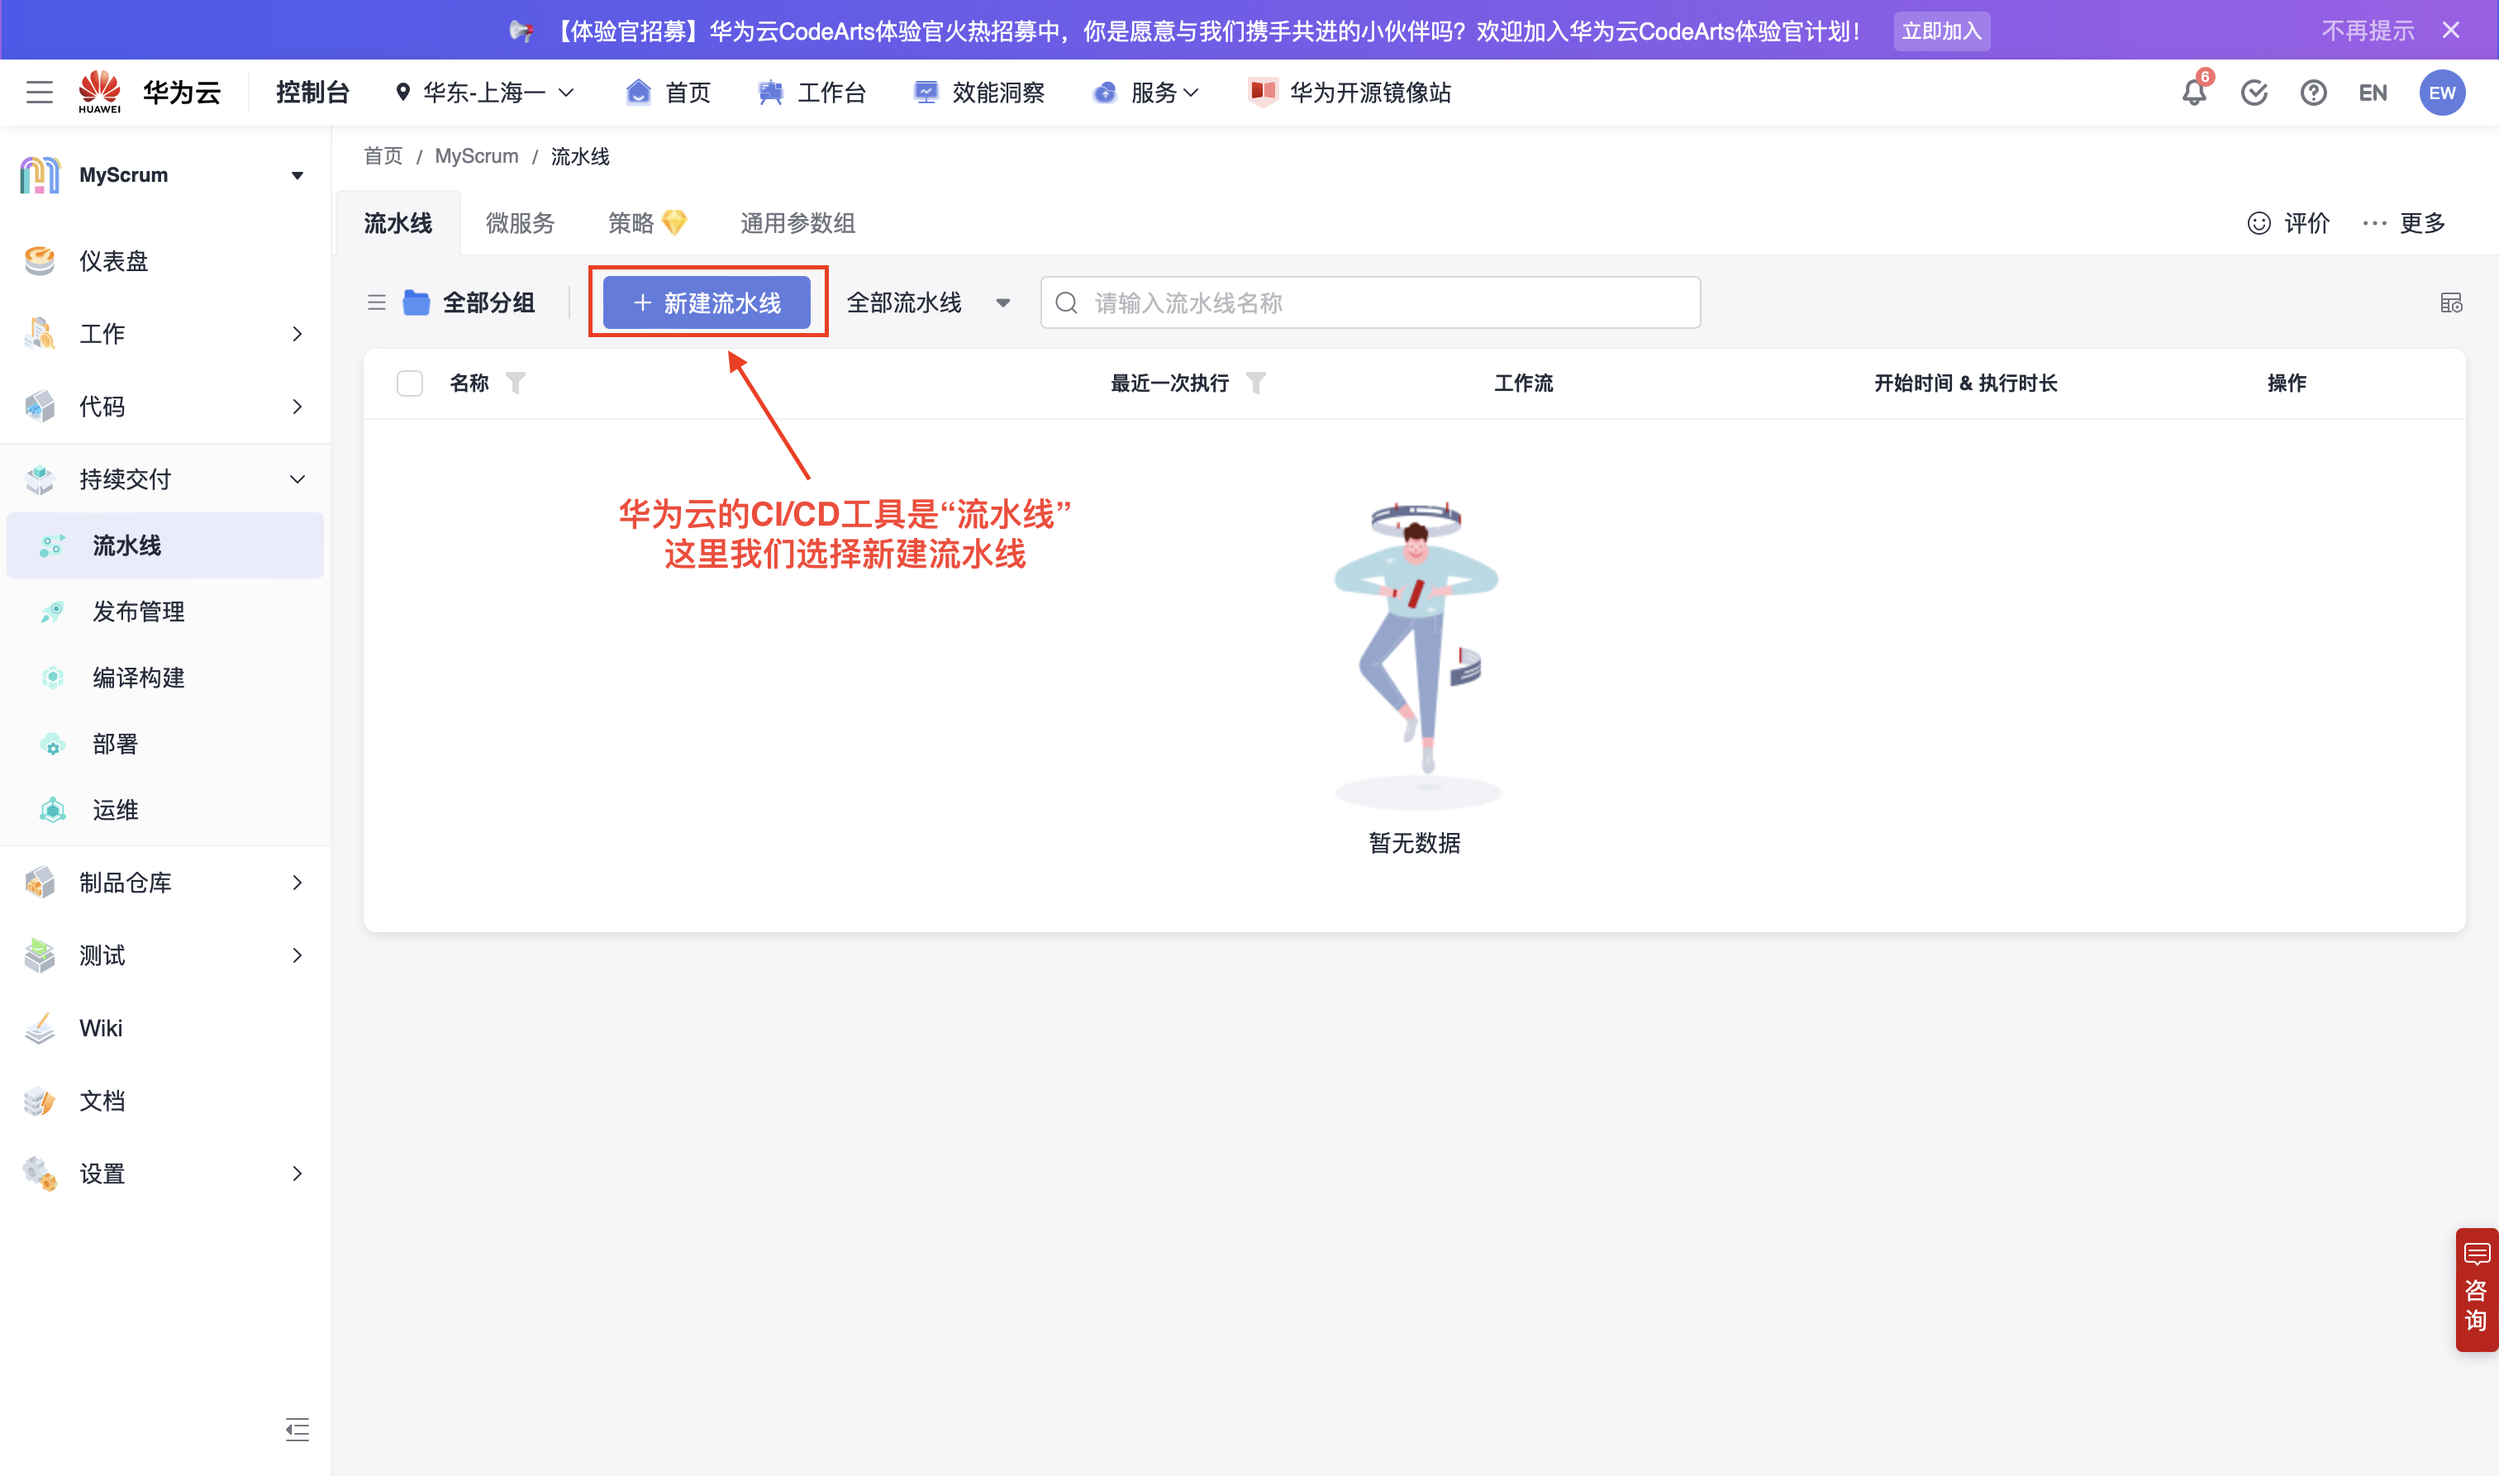
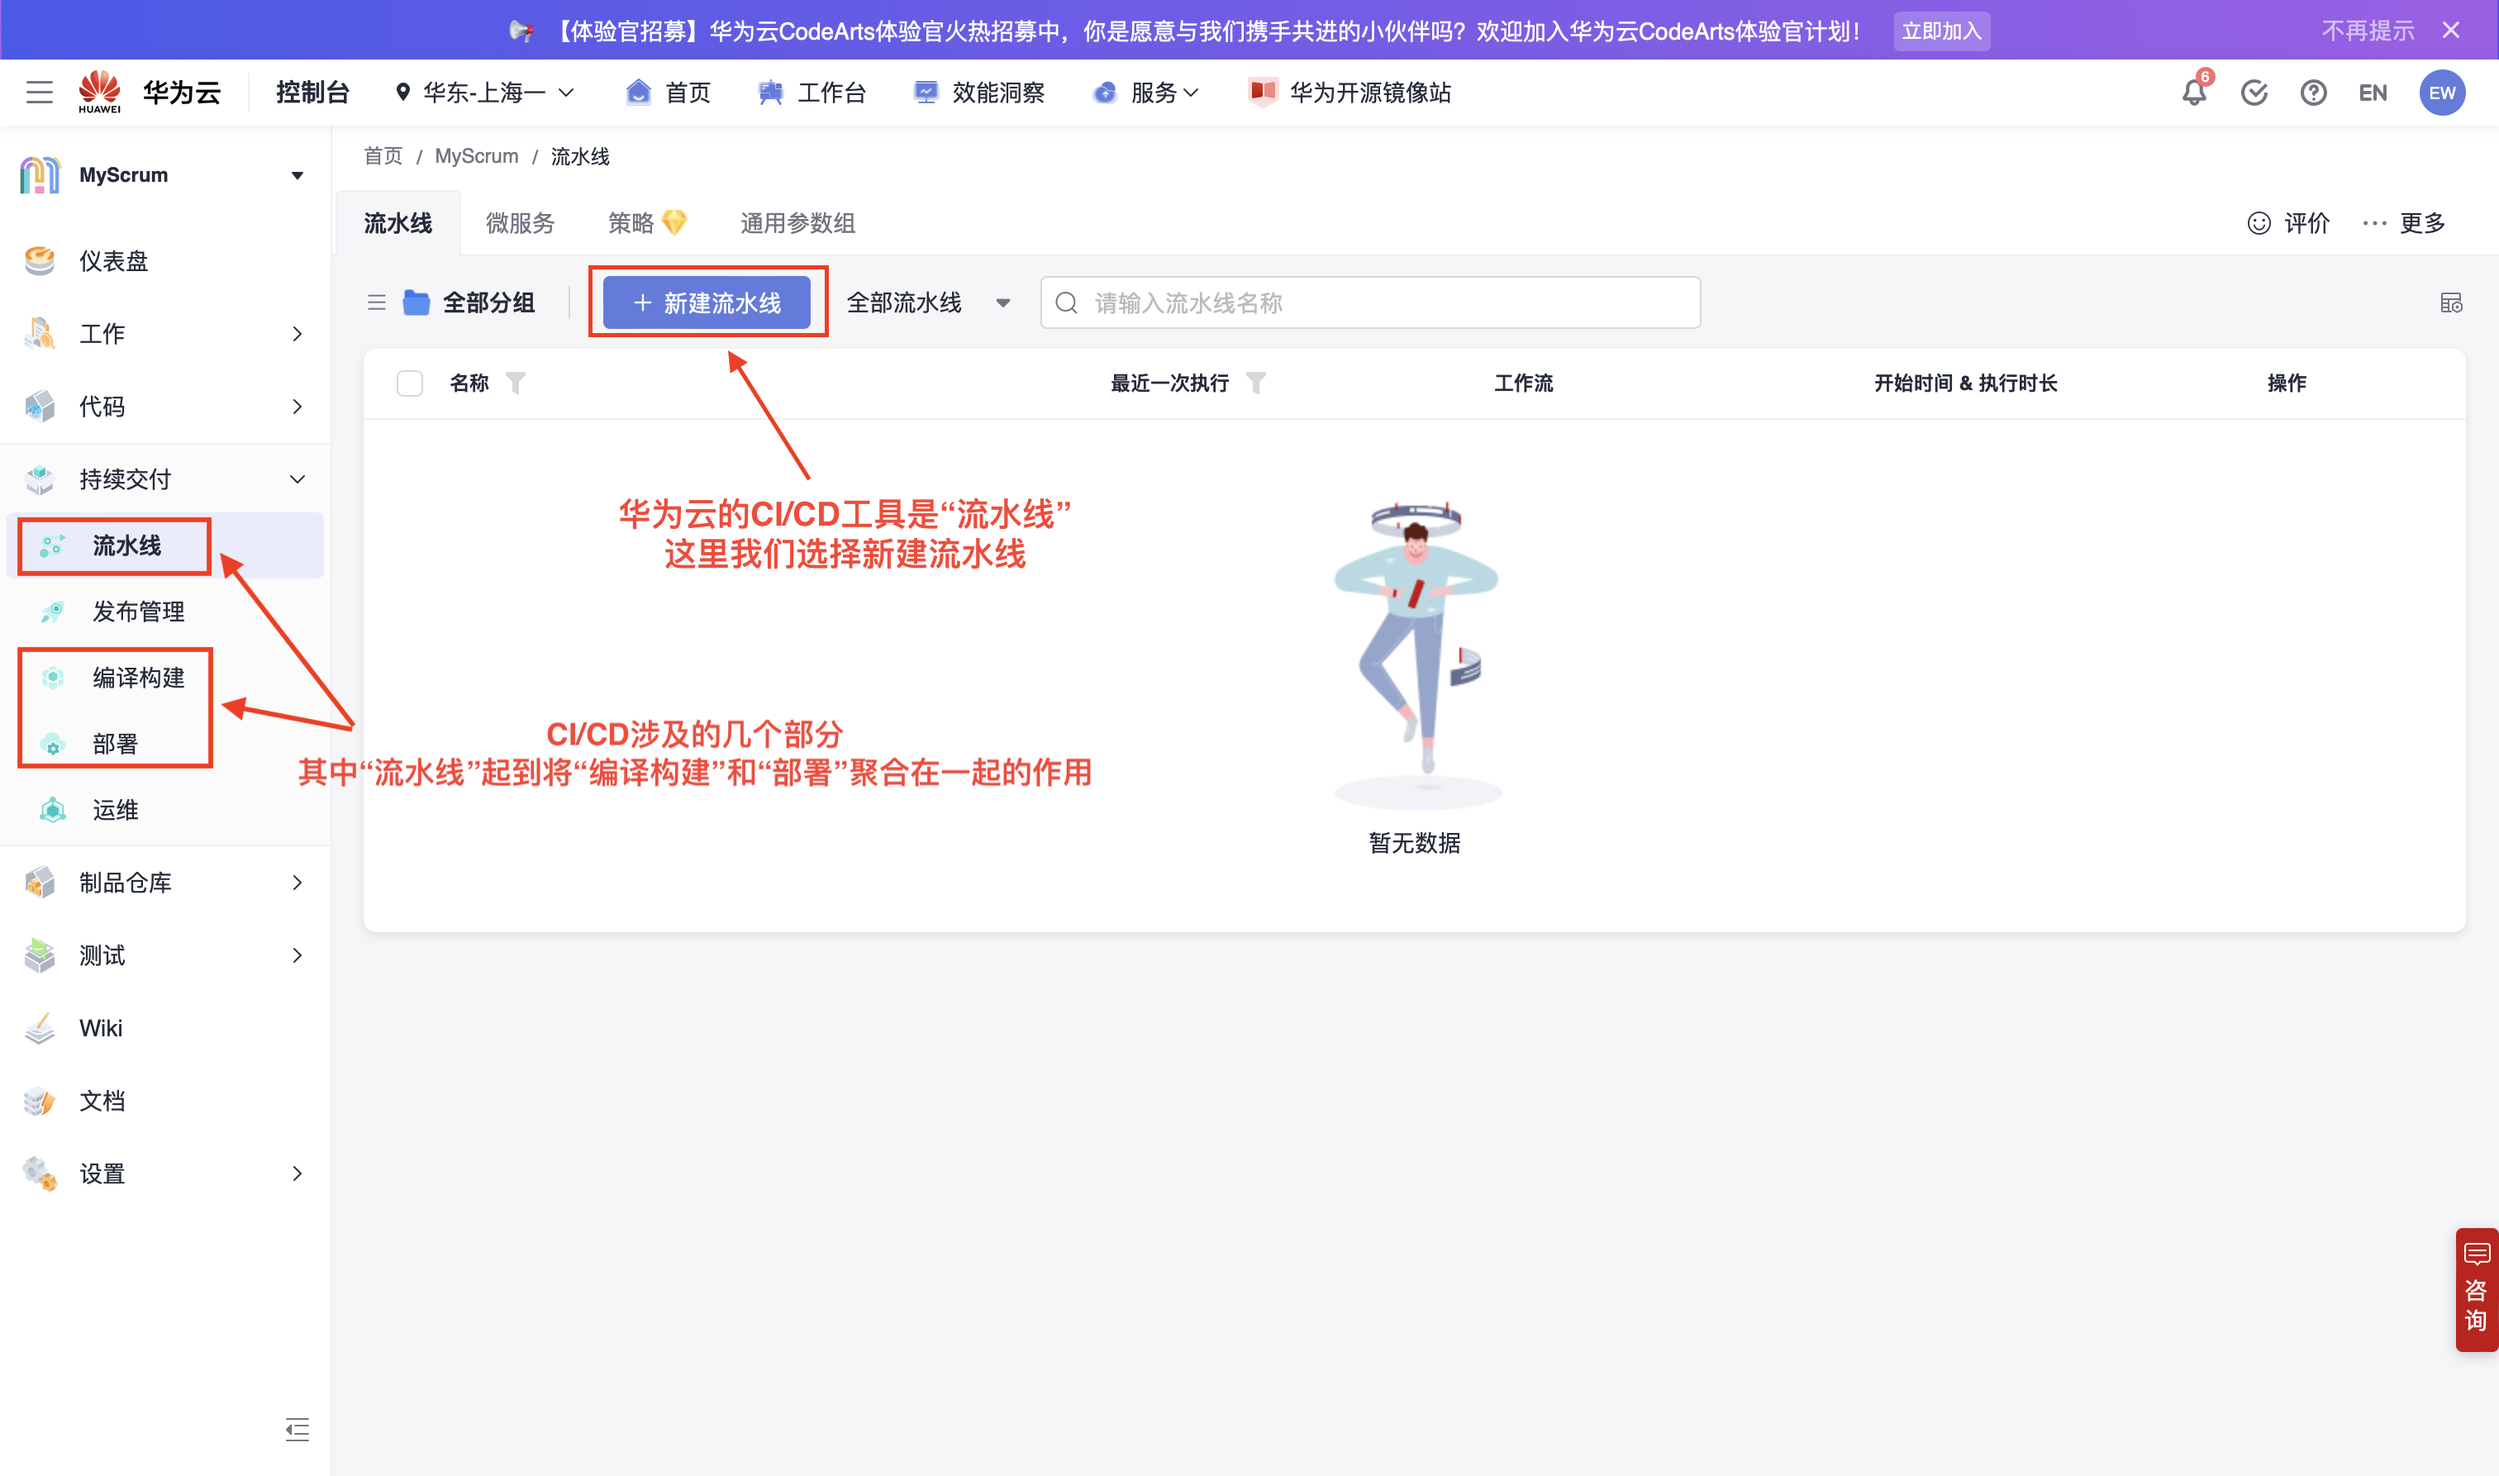
feat: add pipeline chapter.

diff --git a/README.md b/README.md
@@ -12,7 +12,47 @@
 
 ## 1. 集群设置
 
+我们需要为CI/CD配置一个集群用于部署流水线生成的包，按照如下步骤进行：
+
+1. 进入“设置-通用设置-基础资源管理“，新建主机集群
+
+2. 添加或导入已购买的主机（就是买的ECS，在跳出来的界面配置好端口和密码即可）
+
+![](./img/基础资源管理.png)
+
 ## 2. 流水线创建
+
+“流水线”即为华为云CI/CD的主要部分，在这一个组件中，我们可以定义从编译、测试到发布的各个过程。需要注意的是编译和发布任务需要分别在“编译构建”和“部署”中定义好之后才能在“流水线”中使用。
+
+1. 新建流水线
+
+![](./img/新建流水线.png)
+
+![](./img/流水线信息.png)
+
+2. 选择构建模版
+
+我用Java写了一个简单的Helloworld Server，使用的是Springboot框架，用Maven构建。因此，在这里我选择使用Maven构建
+
+![](./img/选择构建模版.png)
+
+创建好之后新增一个部署任务，最终我的CI/CD Workflow如下：
+
+![](./img/流水线DAG.png)
+
+3. 定义各个任务
+
+构建任务：具体的业务逻辑需要在“编译构建”中定义，这里我们在构建任务中引用我们创建好的`build-maven`任务，指定好代码仓库。`build-maven`任务的配置过程我们会在[下一章](#3-编译构建)中详细阐述
+
+![](./img/流水线-构建.png)
+
+代码检测任务(Optional)：直接配置即可
+
+![](./img/流水线-代码检查.png)
+
+部署任务：具体的业务逻辑需要在“部署”中定义，这里我们在"Deploy部署"任务中引用我们创建好的`deploy-helloworld`任务，并把"Deploy部署“任务关联到之前的“构建”任务中。中间从`host_group`到`package_name`的一些参数是我们在后续部署过程中需要用到的，具体含义如图所示.在[部署章节](#4-部署)中我们会详细阐述`deploy-helloworld`的配置过程和图中这些参数的含义。
+
+![](./img/流水线-部署.png)
 
 ## 3. 编译构建
 
